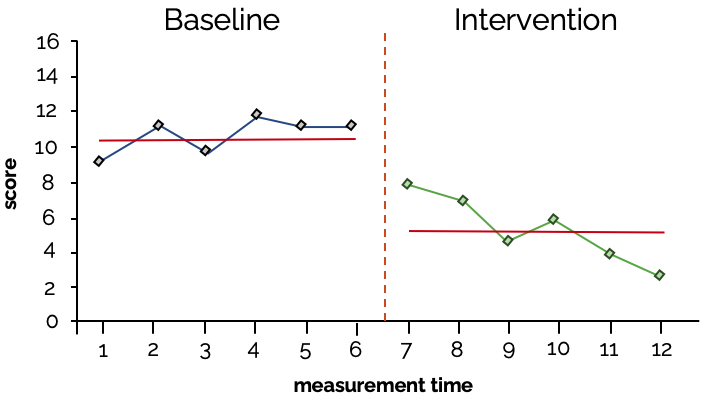
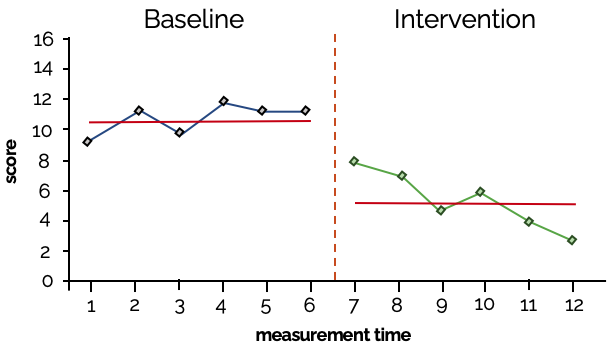
level

diff --git a/Untitled.html b/Untitled.html
@@ -584,7 +584,7 @@ b)	Evaluar los .pink[efectos de una intervención.]
 ---
 background-image: url(https://github.com/danielesnm/SCEDs/blob/main/img/level.png?raw=true)
 background-position: 50% 75%
-background-size: 70%
+background-size: 50%
 # &lt;svg xmlns="http://www.w3.org/2000/svg" viewBox="0 0 576 512" class="rfa" style="height:0.75em;fill:salmon;position:relative;"&gt;&lt;path d="M572.52 241.4C518.29 135.59 410.93 64 288 64S57.68 135.64 3.48 241.41a32.35 32.35 0 0 0 0 29.19C57.71 376.41 165.07 448 288 448s230.32-71.64 284.52-177.41a32.35 32.35 0 0 0 0-29.19zM288 400a144 144 0 1 1 144-144 143.93 143.93 0 0 1-144 144zm0-240a95.31 95.31 0 0 0-25.31 3.79 47.85 47.85 0 0 1-66.9 66.9A95.78 95.78 0 1 0 288 160z"/&gt;&lt;/svg&gt; Paso 2: análisis dentro de cada fase
 
 ### .orange[Level:] utilizando la media o la mediana de los datos.
